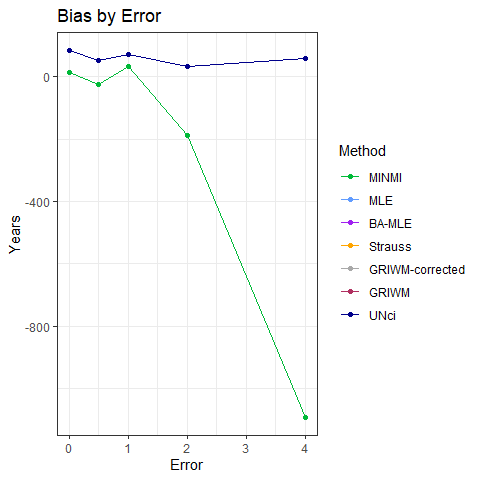
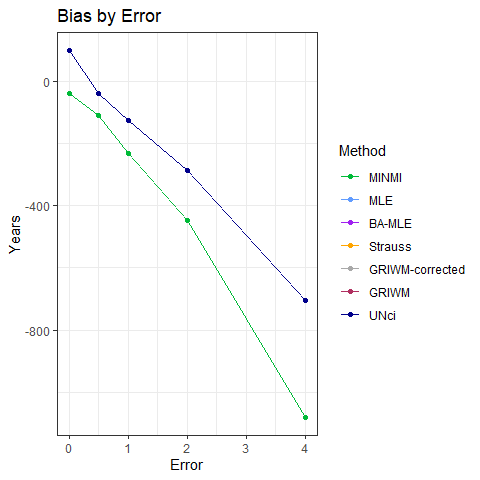
fine-tuning method and doing sims

diff --git a/ResultsSimulations.md b/ResultsSimulations.md
@@ -57,16 +57,16 @@ head(results)
 ```
 
     ##   error_factor method    lower    point    upper point_runtime conf_int_runtime
-    ## 1          0.0  MINMI 14695.81 15004.28 15070.56  7.200241e-05     7.200241e-05
-    ## 2          0.0   UNci      NaN 15073.05      NaN  3.168583e-02     3.168583e-02
-    ## 3          0.5  MINMI 14723.47 15080.38 15574.48  8.158398e-02     8.158398e-02
-    ## 4          0.5   UNci 14779.61 15057.94      NaN  3.826189e-02     3.826189e-02
-    ## 5          1.0  MINMI 14488.75 14979.79 16046.21  1.016340e-01     1.016340e-01
-    ## 6          1.0   UNci 14712.66 15051.98      NaN  4.627395e-02     4.627395e-02
+    ## 1          0.0  MINMI 14312.97 14934.48 15068.02  9.489059e-05     9.489059e-05
+    ## 2          0.0   UNci 14684.29 15073.05 15073.05  1.348789e-01     1.348789e-01
+    ## 3          0.5  MINMI 14335.93 14981.49 15444.01  7.917905e-02     7.917905e-02
+    ## 4          0.5   UNci 14522.90 14999.20 15184.93  5.947304e-02     5.947304e-02
+    ## 5          1.0  MINMI 14098.05 14829.92 15812.75  8.592701e-02     8.592701e-02
+    ## 6          1.0   UNci 14344.70 14950.77 15195.59  4.842782e-02     4.842782e-02
     ##   B.lower B.point B.upper
     ## 1      NA      NA      NA
     ## 2     100     100     100
-    ## 3     100     100     100
+    ## 3     102     100     100
     ## 4     100     100     100
     ## 5     100     100     100
     ## 6     100     100     100
@@ -86,16 +86,16 @@ results %>%
     ## # Groups:   method [2]
     ##    method error_factor point.pct_na lower.pct_na upper.pct_na
     ##    <chr>         <dbl>        <dbl>        <dbl>        <dbl>
-    ##  1 MINMI           0         15014.       14706.       15080.
-    ##  2 MINMI           0.5       14974.       14611.       15459.
-    ##  3 MINMI           1         15034.       14545.       16111.
-    ##  4 MINMI           2         14813.       13966.       17218.
-    ##  5 MINMI           4         13908.       12172.       20668.
-    ##  6 UNci            0         15083.         NaN          NaN 
-    ##  7 UNci            0.5       15052.       14737.         NaN 
-    ##  8 UNci            1         15070.       14690.         NaN 
-    ##  9 UNci            2         15033.       14485.         NaN 
-    ## 10 UNci            4         15058.       14270.         NaN
+    ##  1 MINMI           0         14959.       14339.       15092.
+    ##  2 MINMI           0.5       14889.       14239.       15355.
+    ##  3 MINMI           1         14768.       14032.       15748.
+    ##  4 MINMI           2         14554.       13556.       16695.
+    ##  5 MINMI           4         13921.       12212.       18682.
+    ##  6 UNci            0         15097.       14709.       15097.
+    ##  7 UNci            0.5       14961.       14434.       15192.
+    ##  8 UNci            1         14874.       14223.       15211.
+    ##  9 UNci            2         14714.       13855.       15233.
+    ## 10 UNci            4         14296.       13130.       15159.
 
 # Point Estimates
 
@@ -132,8 +132,8 @@ performance.point.tbl[[1]]
     ## # A tibble: 2 × 6
     ##   error_factor method MSE_000  bias variance_000 avg_runtime
     ##          <dbl> <chr>    <dbl> <dbl>        <dbl>       <dbl>
-    ## 1            0 MINMI        8    14            8     0.00006
-    ## 2            0 UNci        15    83            8     0.00519
+    ## 1            0 MINMI       11   -41            9     0.00008
+    ## 2            0 UNci        18    97            9     0.00581
 
 ``` r
 performance.point.tbl[[2]]
@@ -142,8 +142,8 @@ performance.point.tbl[[2]]
     ## # A tibble: 2 × 6
     ##   error_factor method MSE_000  bias variance_000 avg_runtime
     ##          <dbl> <chr>    <dbl> <dbl>        <dbl>       <dbl>
-    ## 1          0.5 UNci        19    52           17      0.0337
-    ## 2          0.5 MINMI       29   -26           30      0.0896
+    ## 1          0.5 UNci        24   -39           22      0.0538
+    ## 2          0.5 MINMI       50  -111           38      0.0964
 
 ``` r
 performance.point.tbl[[3]]
@@ -152,8 +152,8 @@ performance.point.tbl[[3]]
     ## # A tibble: 2 × 6
     ##   error_factor method MSE_000  bias variance_000 avg_runtime
     ##          <dbl> <chr>    <dbl> <dbl>        <dbl>       <dbl>
-    ## 1            1 UNci        44    70           41      0.0373
-    ## 2            1 MINMI       61    34           63      0.0946
+    ## 1            1 UNci        52  -126           36      0.0582
+    ## 2            1 MINMI      226  -232          173      0.0971
 
 ``` r
 performance.point.tbl[[4]]
@@ -162,8 +162,8 @@ performance.point.tbl[[4]]
     ## # A tibble: 2 × 6
     ##   error_factor method MSE_000  bias variance_000 avg_runtime
     ##          <dbl> <chr>    <dbl> <dbl>        <dbl>       <dbl>
-    ## 1            2 UNci        48    33           49      0.0394
-    ## 2            2 MINMI      599  -187          594      0.100
+    ## 1            2 UNci       146  -286           64      0.0626
+    ## 2            2 MINMI      709  -446          510      0.112
 
 ``` r
 performance.point.tbl[[5]]
@@ -172,8 +172,8 @@ performance.point.tbl[[5]]
     ## # A tibble: 2 × 6
     ##   error_factor method MSE_000  bias variance_000 avg_runtime
     ##          <dbl> <chr>    <dbl> <dbl>        <dbl>       <dbl>
-    ## 1            4 UNci       155    58          160      0.0419
-    ## 2            4 MINMI    13354 -1092        12802      0.109
+    ## 1            4 UNci      1022  -704          527      0.0631
+    ## 2            4 MINMI     4471 -1079         3310      0.118
 
 #### Pivot to make plots
 
@@ -187,18 +187,18 @@ performance.point.long
 
     ## # A tibble: 40 × 4
     ## # Groups:   Error [5]
-    ##    Error Method Metric      value
-    ##    <dbl> <chr>  <chr>       <dbl>
-    ##  1   0   MINMI  MSE_000   8.18   
-    ##  2   0   MINMI  Bias     14.3    
-    ##  3   0   MINMI  Var_000   8.40   
-    ##  4   0   MINMI  Runtime   0.00006
-    ##  5   0   UNci   MSE_000  14.6    
-    ##  6   0   UNci   Bias     83.0    
-    ##  7   0   UNci   Var_000   8.17   
-    ##  8   0   UNci   Runtime   0.00519
-    ##  9   0.5 MINMI  MSE_000  28.9    
-    ## 10   0.5 MINMI  Bias    -25.9    
+    ##    Error Method Metric       value
+    ##    <dbl> <chr>  <chr>        <dbl>
+    ##  1   0   MINMI  MSE_000   10.7    
+    ##  2   0   MINMI  Bias     -41.3    
+    ##  3   0   MINMI  Var_000    8.96   
+    ##  4   0   MINMI  Runtime    0.00008
+    ##  5   0   UNci   MSE_000   18.1    
+    ##  6   0   UNci   Bias      96.9    
+    ##  7   0   UNci   Var_000    8.71   
+    ##  8   0   UNci   Runtime    0.00581
+    ##  9   0.5 MINMI  MSE_000   50.1    
+    ## 10   0.5 MINMI  Bias    -111.     
     ## # … with 30 more rows
 
 ### Plots
@@ -339,16 +339,16 @@ performance.CI.long
     ## # A tibble: 30 × 4
     ##    Error Method Metric        value
     ##    <dbl> <chr>  <chr>         <dbl>
-    ##  1   0   MINMI  Coverage  100      
-    ##  2   0   MINMI  Width     374.     
-    ##  3   0   MINMI  Runtime     0.00006
-    ##  4   0.5 MINMI  Coverage  100      
-    ##  5   0.5 MINMI  Width     848.     
-    ##  6   0.5 MINMI  Runtime     0.0896 
-    ##  7   1   MINMI  Coverage  100      
-    ##  8   1   MINMI  Width    1566.     
-    ##  9   1   MINMI  Runtime     0.0946 
-    ## 10   2   MINMI  Coverage   90      
+    ##  1   0   MINMI  Coverage   95.6    
+    ##  2   0   MINMI  Width     753.     
+    ##  3   0   MINMI  Runtime     0.00008
+    ##  4   0.5 MINMI  Coverage   95.4    
+    ##  5   0.5 MINMI  Width    1116.     
+    ##  6   0.5 MINMI  Runtime     0.0964 
+    ##  7   1   MINMI  Coverage   95.4    
+    ##  8   1   MINMI  Width    1716.     
+    ##  9   1   MINMI  Runtime     0.0971 
+    ## 10   2   MINMI  Coverage   97.1    
     ## # … with 20 more rows
 
 ## Coverage Probability
@@ -364,7 +364,7 @@ conf_int.coverage.plot <- performance.CI.long %>%
   labs(y = "Years", colour="Method", title="Coverage Probabilities") +
   scale_y_continuous(breaks=c(0, 25, 50, 75, 95, 100)) +
   theme(rect = element_rect(fill = "transparent")) +
-  scale_color_manual(values = c("GRIWM" = "#F8766D", "GRIWM-corrected" = "#619CFF", "MINMI" = "#00BA38"))
+  scale_color_manual(values = c("GRIWM" = "#F8766D", "GRIWM-corrected" = "#619CFF", "MINMI" = "#00BA38", "UNci" = "darkblue"))
 ```
 
     ## Warning: Ignoring unknown parameters: linewidth
@@ -372,12 +372,6 @@ conf_int.coverage.plot <- performance.CI.long %>%
 ``` r
 conf_int.coverage.plot
 ```
-
-    ## Warning: Removed 5 rows containing missing values (geom_point).
-
-    ## Warning: Removed 5 row(s) containing missing values (geom_path).
-
-    ## Warning: Removed 5 rows containing missing values (geom_label_repel).
 
 ![](ResultsSimulations_files/figure-gfm/unnamed-chunk-9-1.png)<!-- -->
 
@@ -392,7 +386,7 @@ conf_int.width.plot <- performance.CI.long %>%
   theme_bw() +
   labs(y = "Years", colour="Method", title="Average Width of Estimated Confidence Intervals") +
   theme(rect = element_rect(fill = "transparent")) +
-  scale_color_manual(values = c("GRIWM" = "#F8766D", "GRIWM-corrected" = "#619CFF", "MINMI" = "#00BA38"))
+  scale_color_manual(values = c("GRIWM" = "#F8766D", "GRIWM-corrected" = "#619CFF", "MINMI" = "#00BA38", "UNci"="darkblue"))
 ```
 
     ## Warning: Ignoring unknown parameters: linewidth
@@ -400,10 +394,6 @@ conf_int.width.plot <- performance.CI.long %>%
 ``` r
 conf_int.width.plot
 ```
-
-    ## Warning: Removed 5 rows containing missing values (geom_point).
-
-    ## Warning: Removed 5 row(s) containing missing values (geom_path).
 
 ![](ResultsSimulations_files/figure-gfm/unnamed-chunk-10-1.png)<!-- -->
 
@@ -419,7 +409,7 @@ conf_int.runtime.plot <- performance.CI.long %>%
   scale_y_continuous(trans=scales::log10_trans()) +
   labs(y = "Seconds", colour="Method", title="Average Runtime of Confidence Interval Estimation") +
   theme(rect = element_rect(fill = "transparent")) +
-  scale_color_manual(values = c("GRIWM" = "#F8766D", "GRIWM-corrected" = "#619CFF", "MINMI" = "#00BA38"))
+  scale_color_manual(values = c("GRIWM" = "#F8766D", "GRIWM-corrected" = "#619CFF", "MINMI" = "#00BA38", "UNci"="darkblue"))
 ```
 
     ## Warning: Ignoring unknown parameters: linewidth
